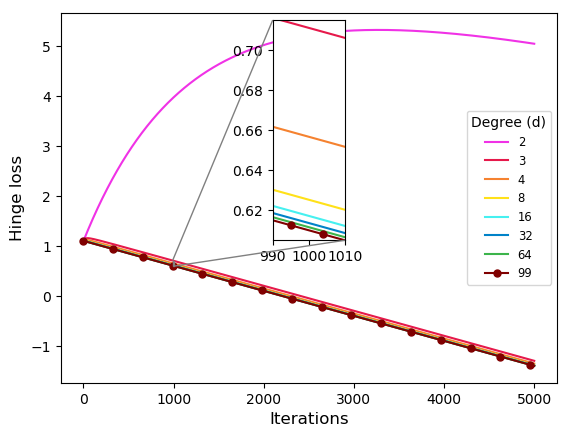
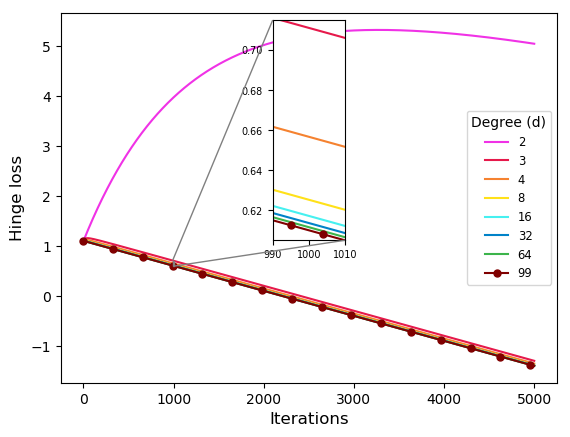
Improve generate_paper2_figures.py

diff --git a/generate_paper2_figures.py b/generate_paper2_figures.py
@@ -19,22 +19,21 @@ Location Legend:
 'center'	    10
 """
 
-
 SMALL_SIZE = 10
 MEDIUM_SIZE = 12
 BIGGER_SIZE = 14
 
-plt.rc('font', size=SMALL_SIZE)          # controls default text sizes
-plt.rc('axes', titlesize=SMALL_SIZE)     # fontsize of the axes title
-plt.rc('axes', labelsize=MEDIUM_SIZE)    # fontsize of the x and y labels
-plt.rc('xtick', labelsize=SMALL_SIZE)    # fontsize of the tick labels
-plt.rc('ytick', labelsize=SMALL_SIZE)    # fontsize of the tick labels
-plt.rc('legend', fontsize=SMALL_SIZE)    # legend fontsize
+plt.rc('font', size=SMALL_SIZE)  # controls default text sizes
+plt.rc('axes', titlesize=SMALL_SIZE)  # fontsize of the axes title
+plt.rc('axes', labelsize=MEDIUM_SIZE)  # fontsize of the x and y labels
+plt.rc('xtick', labelsize=SMALL_SIZE)  # fontsize of the tick labels
+plt.rc('ytick', labelsize=SMALL_SIZE)  # fontsize of the tick labels
+plt.rc('legend', fontsize=SMALL_SIZE)  # legend fontsize
 plt.rc('figure', titlesize=BIGGER_SIZE)  # fontsize of the figure title
 
-#root_folder_path = 'C:/Users/grimidev/Dropbox/Mine/Skull/Uni/Erasmus/Report and Thesis/report/figures/simulations/'
-# C:\Users\grimidev\Dropbox\Share\asynchronous_computing\followup\figures\simulations
-root_folder_path = './figures/paper2/'
+# root_folder_path = 'C:/Users/grimidev/Dropbox/Mine/Skull/Uni/Erasmus/Report and Thesis/report/figures/simulations/'
+root_folder_path = 'C:/Users/grimidev/Dropbox/Share/asynchronous_computing/followup/figures/simulations/'
+#root_folder_path = './figures/paper2/'
 
 old_colors = {
     'black': [0x00, 0x00, 0x00, 0xff],
@@ -157,88 +156,72 @@ n=1000, c=.1, alpha dep from SG, par(3,2), for expanders
 
 
 def run():
-    log, setup = load()
-    #plot_dataset_nodes_distr_err_vs_iter('test2', 'eigvecsvm', 100, log['test2']['exp'], setup['test2']['exp'], save=True)
-    plot_dataset_nodes_distr_err_vs_iter('test3', 'eigvecsvm', 100, log['test3']['exp'], setup['test3']['exp'], save=True)
+    active_tests = [
+        'test1',
+        'test2',
+        'test3',
+        # 'test4',
+        # 'test5'
+    ]
+    log, setup = load(active_tests)
+    #plot_dataset_nodes_distr_err_vs_iter(
+    #    'test3', 'eigvecsvm', 100, log['test3']['exp'], setup['test3']['exp'], save=False)
+    plot_all(log, setup, active_tests)
 
 
-def load():
+def plot_all(log, setup, active_tests):
+    distributions = ['exp', 'unif', 'par']
+
+    for test in active_tests:
+        plot_dataset_nodes_distr_err_vs_iter(test, 'eigvecsvm', 100, log[test]['exp'], setup[test]['exp'], save=True)
+        if test in ['test1', 'test2']:
+            for distr in distributions:
+                #plot_dataset_nodes_distr_err_vs_time(
+                #    test, 'eigvecsvm', 100, distr, log[test][distr], setup[test][distr], save=True)
+                pass
+
+
+def load(active_tests):
     log = {
-        'test1': { 'par': None, 'unif': None, 'exp': None },
-        'test2': { 'par': None, 'unif': None, 'exp': None },
-        'test3': { 'par': None, 'unif': None, 'exp': None },
-        'test4': { 'par': None, 'unif': None, 'exp': None },
-        'test5': { 'par': None, 'unif': None, 'exp': None }
+        'test1': {'par': None, 'unif': None, 'exp': None},
+        'test2': {'par': None, 'unif': None, 'exp': None},
+        'test3': {'par': None, 'unif': None, 'exp': None},
+        'test4': {'par': None, 'unif': None, 'exp': None},
+        'test5': {'par': None, 'unif': None, 'exp': None}
     }
     setup = {
-        'test1': { 'par': None, 'unif': None, 'exp': None },
-        'test2': { 'par': None, 'unif': None, 'exp': None },
-        'test3': { 'par': None, 'unif': None, 'exp': None },
-        'test4': { 'par': None, 'unif': None, 'exp': None },
-        'test5': { 'par': None, 'unif': None, 'exp': None }
+        'test1': {'par': None, 'unif': None, 'exp': None},
+        'test2': {'par': None, 'unif': None, 'exp': None},
+        'test3': {'par': None, 'unif': None, 'exp': None},
+        'test4': {'par': None, 'unif': None, 'exp': None},
+        'test5': {'par': None, 'unif': None, 'exp': None}
     }
 
-    log['test2']['exp'], setup['test2']['exp'] = load_test_logs(
-        './test_log/paper2/test2/test_2expander_eigvecsvm_C0.1alpha_100n_noshuf_Win[1,1]_exp[1]_INFtime_5000iter_mtrT2worst')
-    log['test2']['par'], setup['test2']['par'] = load_test_logs(
-        './test_log/paper2/test2/test_2expander_eigvecsvm_C0.1alpha_100n_noshuf_Win[1,1]_par[3-2]_INFtime_5000iter_mtrT2worst')
-    log['test2']['unif'], setup['test2']['unif'] = load_test_logs(
-        './test_log/paper2/test2/test_2expander_eigvecsvm_C0.1alpha_100n_noshuf_Win[1,1]_unif[0-2]_INFtime_5000iter_mtrT2worst')
+    if 'test1' in active_tests:
+        log['test1']['exp'], setup['test1']['exp'] = load_test_logs(
+            './test_log/paper2/test1/test_1undir_cycle_eigvecsvm_C0.1alpha_100n_noshuf_Win[1,1]_exp[1]_INFtime_5000iter_mtrT2worst')
+        log['test1']['par'], setup['test1']['par'] = load_test_logs(
+            './test_log/paper2/test1/test_1undir_cycle_eigvecsvm_C0.1alpha_100n_noshuf_Win[1,1]_par[3-2]_INFtime_5000iter_mtrT2worst')
+        log['test1']['unif'], setup['test1']['unif'] = load_test_logs(
+            './test_log/paper2/test1/test_1undir_cycle_eigvecsvm_C0.1alpha_100n_noshuf_Win[1,1]_unif[0-2]_INFtime_5000iter_mtrT2worst')
 
-    log['test3']['exp'], setup['test3']['exp'] = load_test_logs(
-        './test_log/paper2/test3/test_3alt_expander_alteigvecsvm_C0.1alpha_100n_noshuf_Win[1,1]_exp[1]_INFtime_5000iter_mtrT2worst')
-    log['test3']['par'], setup['test3']['par'] = load_test_logs(
-        './test_log/paper2/test3/test_3alt_expander_alteigvecsvm_C0.1alpha_100n_noshuf_Win[1,1]_par[3-2]_INFtime_5000iter_mtrT2worst')
-    log['test3']['unif'], setup['test3']['unif'] = load_test_logs(
-        './test_log/paper2/test3/test_3alt_expander_alteigvecsvm_C0.1alpha_100n_noshuf_Win[1,1]_unif[0-2]_INFtime_5000iter_mtrT2worst')
+    if 'test2' in active_tests:
+        log['test2']['exp'], setup['test2']['exp'] = load_test_logs(
+            './test_log/paper2/test2/test_2expander_eigvecsvm_C0.1alpha_100n_noshuf_Win[1,1]_exp[1]_INFtime_5000iter_mtrT2worst')
+        log['test2']['par'], setup['test2']['par'] = load_test_logs(
+            './test_log/paper2/test2/test_2expander_eigvecsvm_C0.1alpha_100n_noshuf_Win[1,1]_par[3-2]_INFtime_5000iter_mtrT2worst')
+        log['test2']['unif'], setup['test2']['unif'] = load_test_logs(
+            './test_log/paper2/test2/test_2expander_eigvecsvm_C0.1alpha_100n_noshuf_Win[1,1]_unif[0-2]_INFtime_5000iter_mtrT2worst')
+
+    if 'test3' in active_tests:
+        log['test3']['exp'], setup['test3']['exp'] = load_test_logs(
+            './test_log/paper2/test3/test_3alt_expander_alteigvecsvm_C0.1alpha_100n_noshuf_Win[1,1]_exp[1]_INFtime_5000iter_mtrT2worst')
+        log['test3']['par'], setup['test3']['par'] = load_test_logs(
+            './test_log/paper2/test3/test_3alt_expander_alteigvecsvm_C0.1alpha_100n_noshuf_Win[1,1]_par[3-2]_INFtime_5000iter_mtrT2worst')
+        log['test3']['unif'], setup['test3']['unif'] = load_test_logs(
+            './test_log/paper2/test3/test_3alt_expander_alteigvecsvm_C0.1alpha_100n_noshuf_Win[1,1]_unif[0-2]_INFtime_5000iter_mtrT2worst')
 
     return log, setup
-
-
-def plot_dataset_nodes_distr_iter_vs_time(dataset, n, distr, logs, setup, save=False):
-    # plt.title('Min iteration VS time', loc='left')
-    plt.xlabel('Time')
-    plt.ylabel('Iteration')
-
-    xlim = 0
-
-    for graph, iters in logs['iter_time'].items():
-        deg = degree_from_label(graph)
-        if deg == 20:  # and distr == 'par':
-            markersize = 8
-            marker = 'x'
-        elif 'clique' in graph:
-            markersize = 5
-            marker = 'o'
-        else:
-            markersize = 0
-            marker = 'o'
-
-        plt.plot(
-            iters,
-            list(range(len(iters))),
-            label=deg,
-            markersize=markersize,
-            marker=marker,
-            markevery=0.05,
-            color=degree_colors[setup['n']][deg]
-        )
-        xlim = max(xlim, iters[-1])
-
-    plt.xlim(xmax=xlim)
-    plt.yscale('linear')
-    plt.legend(title="Degree (d)", fontsize='small', fancybox=True)
-    if save:
-        dest = root_folder_path + '{}_{}n_{}_iter_vs_time.png'.format(
-            dataset,
-            n,
-            distr
-        )
-        plt.savefig(dest, bbox_inches='tight')
-        print('Create file {}'.format(dest))
-    else:
-        plt.show()
-    plt.close()
 
 
 def plot_dataset_nodes_distr_err_vs_iter(test, dataset, n, logs, setup, save=False):
@@ -246,41 +229,47 @@ def plot_dataset_nodes_distr_err_vs_iter(test, dataset, n, logs, setup, save=Fal
     # plt.title('Error VS iterations', loc='left')
 
     plt.xlabel('Iterations')
-    if 'svm' in dataset:
-        plt.ylabel('Hinge loss')
-    elif 'reg' in dataset:
-        plt.ylabel('Mean Squared Error')
+    plt.ylabel('Hinge loss')
 
     zoom_region = False
     x1, x2, y1, y2 = 0, 0, 0, 0
-    loc1, loc2 = 2,4
+    loc1, loc2 = 2, 4
     zoom_loc = 1
     zoom_scale = 3
     legend_loc = 0
     markevery = 0.05
     bbox_to_anchor = False
-    if dataset == 'eigvecsvm':
-        if test == 'test2':
-            x1, x2 = 990, 1010
-            y1, y2 = 0.605, 0.715
-            legend_loc = 5
-            zoom_loc = 9
-            zoom_region = True
-            zoom_scale = 40
-            markevery = 0.05
-        elif test == 'test3':
-            x1, x2 = 990, 1010
-            y1, y2 = 0.606, 0.641
-            legend_loc = 1
-            zoom_loc = 3
-            zoom_region = True
-            zoom_scale = 42
-            markevery = 0.05
-            loc1=1
-            loc2=2
-            bbox_to_anchor = (0.1,0.1)
 
-
+    if test == 'test1':
+        x1, x2 = 960, 1050
+        y1, y2 = 0.600, 0.665
+        legend_loc = 5
+        zoom_loc = 3
+        zoom_region = True
+        zoom_scale = 16
+        markevery = 0.05
+        loc1 = 1
+        loc2 = 2
+        bbox_to_anchor = (0.08, 0.06)
+    elif test == 'test2':
+        x1, x2 = 990, 1010
+        y1, y2 = 0.605, 0.715
+        legend_loc = 5
+        zoom_loc = 9
+        zoom_region = True
+        zoom_scale = 40
+        markevery = 0.05
+    elif test == 'test3':
+        x1, x2 = 990, 1010
+        y1, y2 = 0.606, 0.641
+        legend_loc = 1
+        zoom_loc = 3
+        zoom_region = True
+        zoom_scale = 42
+        markevery = 0.05
+        loc1 = 1
+        loc2 = 2
+        bbox_to_anchor = (0.1, 0.1)
 
     axins = None
     if zoom_region:
@@ -339,8 +328,8 @@ def plot_dataset_nodes_distr_err_vs_iter(test, dataset, n, logs, setup, save=Fal
     if zoom_region:
         axins.set_xlim(x1, x2)  # apply the x-limits
         axins.set_ylim(y1, y2)  # apply the y-limits
-        plt.yticks(visible=True)
-        plt.xticks(visible=True)
+        plt.yticks(visible=True, fontsize='x-small')
+        plt.xticks(visible=True, fontsize='x-small')
         mark_inset(ax, axins, loc1=loc1, loc2=loc2, fc="none", ec="0.5", zorder=100)
 
     plt.yscale('linear')
@@ -370,7 +359,7 @@ def plot_dataset_nodes_distr_err_vs_time(test, dataset, n, distr, logs, setup, s
         plt.ylabel('Mean Squared Error')
     zoom_region = False
     x1, x2, y1, y2 = 0, 0, 0, 0
-    loc1, loc2 = 2,4
+    loc1, loc2 = 2, 4
     zoom_loc = 1
     legend_loc = 0
     markevery = 0.05
@@ -392,7 +381,7 @@ def plot_dataset_nodes_distr_err_vs_time(test, dataset, n, distr, logs, setup, s
     for graph in logs['metrics'][setup['obj_function']]:
         deg = degree_from_label(graph)
         zorder = 2
-        if deg == 20 : #and distr == 'par':
+        if deg == 20:  # and distr == 'par':
             markersize = 8
             marker = 'x'
             zorder = 10
@@ -438,8 +427,8 @@ def plot_dataset_nodes_distr_err_vs_time(test, dataset, n, distr, logs, setup, s
         plt.xticks(visible=False)
         mark_inset(ax, axins, loc1=loc1, loc2=loc2, fc="none", ec="0.5", zorder=100)
 
-    #ax.set_xlim(-50, xlim)
-    #plt.yscale('linear')
+    # ax.set_xlim(-50, xlim)
+    # plt.yscale('linear')
 
     """locs, _ = plt.yticks()
     labels = []
@@ -467,13 +456,59 @@ def plot_dataset_nodes_distr_err_vs_time(test, dataset, n, distr, logs, setup, s
         # size='small'
     )
     """
-    #ylim_padding = (ylim_up - ylim_dw) / 30
-    #ax.set_ylim(max(ylim_dw - ylim_padding, 0), ylim_up + ylim_padding)
+    # ylim_padding = (ylim_up - ylim_dw) / 30
+    # ax.set_ylim(max(ylim_dw - ylim_padding, 0), ylim_up + ylim_padding)
 
     ax.legend(title="Degree (d)", fontsize='small', fancybox=True, loc=legend_loc)
     if save:
         dest = root_folder_path + '{}_{}_{}n_{}_err_vs_time.png'.format(
             test,
+            dataset,
+            n,
+            distr
+        )
+        plt.savefig(dest, bbox_inches='tight')
+        print('Create file {}'.format(dest))
+    else:
+        plt.show()
+    plt.close()
+
+
+def plot_dataset_nodes_distr_iter_vs_time(dataset, n, distr, logs, setup, save=False):
+    # plt.title('Min iteration VS time', loc='left')
+    plt.xlabel('Time')
+    plt.ylabel('Iteration')
+
+    xlim = 0
+
+    for graph, iters in logs['iter_time'].items():
+        deg = degree_from_label(graph)
+        if deg == 20:  # and distr == 'par':
+            markersize = 8
+            marker = 'x'
+        elif 'clique' in graph:
+            markersize = 5
+            marker = 'o'
+        else:
+            markersize = 0
+            marker = 'o'
+
+        plt.plot(
+            iters,
+            list(range(len(iters))),
+            label=deg,
+            markersize=markersize,
+            marker=marker,
+            markevery=0.05,
+            color=degree_colors[setup['n']][deg]
+        )
+        xlim = max(xlim, iters[-1])
+
+    plt.xlim(xmax=xlim)
+    plt.yscale('linear')
+    plt.legend(title="Degree (d)", fontsize='small', fancybox=True)
+    if save:
+        dest = root_folder_path + '{}_{}n_{}_iter_vs_time.png'.format(
             dataset,
             n,
             distr
@@ -520,7 +555,8 @@ def plot_dataset_nodes_distr_err_slope_vs_iter_comparison(dataset, n, distr, err
         # print(slope)
 
         real_slopes[graph] = slope
-        pred_ratios[graph] = 1 / math.sqrt(uniform_weighted_Pn_spectral_gap_from_adjacency_matrix(setup['graphs'][graph]))
+        pred_ratios[graph] = 1 / math.sqrt(
+            uniform_weighted_Pn_spectral_gap_from_adjacency_matrix(setup['graphs'][graph]))
 
         if 'clique' in graph:
             clique_slope = slope
@@ -657,12 +693,12 @@ def plot_distr_iter_time_vs_degree(dataset, n, logs_dict, setup_dict, error='avg
             # size='x-small'
         )
 
-    l = [x for x in ly['exp'].keys() if x not in [16,50]]
+    l = [x for x in ly['exp'].keys() if x not in [16, 50]]
     plt.xticks(
         l,
         l,
         # rotation='vertical',
-        #size='small'
+        # size='small'
     )
 
     plt.legend(title="", fontsize='small', fancybox=True)
